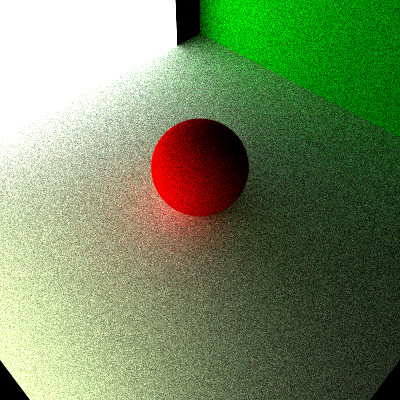
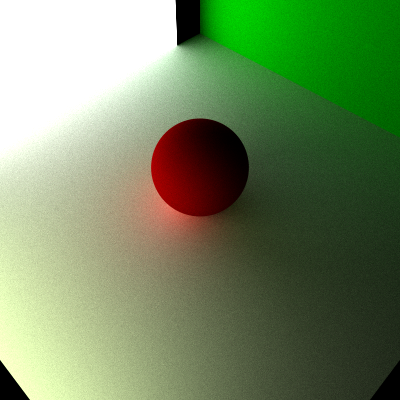
finished

diff --git a/assignment_package/src/integrators/naiveintegrator.cpp b/assignment_package/src/integrators/naiveintegrator.cpp
@@ -19,8 +19,10 @@ Color3f NaiveIntegrator::Li(const Ray &ray, const Scene &scene, std::shared_ptr<
 
             Color3f c = isect.bsdf->Sample_f(woW, &wiW, xi, &pdf);
             Color3f li = Li(isect.SpawnRay(glm::normalize(wiW)), scene, sampler, depth -1);
-            if (pdf < 0.0000001) li = Color3f(0.f);
-            color =  Le + c * li * glm::dot(wiW, isect.normalGeometric)/pdf;
+            if (pdf < 0.0000001) {
+                color = Color3f(0.f);
+            }
+            else color =  Le + c * li * glm::dot(wiW, isect.normalGeometric)/pdf;
         }
     }
     return color;

diff --git a/assignment_package/src/integrators/integrator.cpp b/assignment_package/src/integrators/integrator.cpp
@@ -13,10 +13,10 @@ void Integrator::Render()
     // For every pixel in the FilmTile:
     for(Point2i pixel : tilePixels)
     {
-        ///Uncomment this to debug a particular pixel within this tile
-//        if(pixel.x != 200 && pixel.y != 200)
+        //Uncomment this to debug a particular pixel within this tile
+//        if(pixel.x == 160 && pixel.y == 145)
 //        {
-//            continue;
+//            std::cout << "";
 //        }
         Color3f pixelColor(0.f);
         // Ask our sampler for a collection of stratified samples, then raycast through each sample

diff --git a/assignment_package/src/scene/materials/lambertbrdf.cpp b/assignment_package/src/scene/materials/lambertbrdf.cpp
@@ -20,6 +20,5 @@ Color3f LambertBRDF::Sample_f(const Vector3f &wo, Vector3f *wi, const Point2f &u
 float LambertBRDF::Pdf(const Vector3f &wo, const Vector3f &wi) const
 {
     //TODO
-    //return SameHemisphere(wo,wi) ? WarpFunctions::squareToHemisphereCosinePDF(wi):0;
-    return WarpFunctions::squareToHemisphereCosinePDF(wi);
+    return SameHemisphere(wo,wi) ? WarpFunctions::squareToHemisphereCosinePDF(wi):0;
 }

diff --git a/README.md b/README.md
@@ -1,315 +1,25 @@
 Path Tracer Episode II: Attack of the Rays
 ======================
 
-**University of Pennsylvania, CIS 561: Advanced Computer Graphics, Homework 4**
+Sarah Forcier
+58131867
 
-Overview
-------------
-You will implement a na&#239;ve Monte Carlo path tracer by writing functions to
-generate random ray samples within a hemisphere so that you can compute the
-lighting a surface intersection receives. The images your path tracer produces
-will be rather grainy in appearance, but in future assignments we will implement
-ray sampling functions that will help combat this. For now, the most important
-part of this assignment is reading through the base code and understanding how
-all of the path tracer's components work together to produce an image.
+Uniform Hemisphere, depth = 1, 100 samples:
 
-Useful Reading
----------
-Once again, you will find the textbook will be very helpful when implementing
-this homework assignment. We recommend referring to the following chapters:
-* 8.1: Basic Reflection Interface
-* 8.3: Lambertian Reflection
-* 9.1: BSDF
-* 9.2: Material and Interface Implementations
-* 5.4: Radiometry
+![](./1recursionuniform.png)
 
-The Light Transport Equation
---------------
-#### L<sub>o</sub>(p, &#969;<sub>o</sub>) = L<sub>e</sub>(p, &#969;<sub>o</sub>) + &#8747;<sub><sub>S</sub></sub> f(p, &#969;<sub>o</sub>, &#969;<sub>i</sub>) L<sub>i</sub>(p, &#969;<sub>i</sub>) V(p', p) |dot(&#969;<sub>i</sub>, N)| _d_&#969;<sub>i</sub>
+Uniform Hemisphere, depth = 5, 100 samples:
 
-* __L<sub>o</sub>__ is the light that exits point _p_ along ray &#969;<sub>o</sub>.
-* __L<sub>e</sub>__ is the light inherently emitted by the surface at point _p_
-along ray &#969;<sub>o</sub>.
-* __&#8747;<sub><sub>S</sub></sub>__ is the integral over the sphere of ray
-directions from which light can reach point _p_. &#969;<sub>o</sub> and
-&#969;<sub>i</sub> are within this domain. In general, we tend to only care
-about one half of this sphere, determining the relevant half based on the
-reflectance or transmittance of the BSDF.
-* __f__ is the Bidirectional Scattering Distribution Function of the material at
-point _p_, which evaluates the proportion of energy received from
-&#969;<sub>i</sub> at point _p_ that is reflected along &#969;<sub>o</sub>.
-* __L<sub>i</sub>__ is the light energy that reaches point _p_ from the ray
-&#969;<sub>i</sub>. This is the recursive term of the LTE.
-* __V__ is a simple visibility test that determines if the surface point _p_' from
-which &#969;<sub>i</sub> originates is visible to _p_. It returns 1 if there is
-no obstruction, and 0 is there is something between _p_ and _p_'. This is really
-only included in the LTE when one generates &#969;<sub>i</sub> by randomly
-choosing a point of origin in the scene rather than generating a ray and finding
-its intersection with the scene.
-* The __absolute-value dot product__ term accounts for Lambert's Law of Cosines.
+![](./5recursionuniform.png)
 
-Code Style Notes
--------------
-Many of the functions with which we have provided you "return" multiple values
-by way of altering variables that are function inputs. For consistency, we only
-use references to save stack space when passing variables into functions; they
-are always `const`. On the other hand, if a function contains a pointer to some
-variable, then the function is expected to alter the value of the variable
-passed by pointer, assuming the pointer is not `null`.
+Cosine Weighted Hemisphere, depth 1, 100 samples:
 
-We have also defined several type aliases in `globals.h` to make the provided
-code more human-readable. For example, rather than declaring `glm::vec3`s to
-represent points, directions, and normals all together, we have provided the
-`Point3f`, `Vector3f`, and `Normal3f` types to use in your code. When compiled,
-they simply become `glm::vec3`s, and can be used exactly the same way, but they
-make the code a little easier to interpret for a human. There are additional
-types defined in `globals.h` along with some utility functions and constant
-float values (e.g. &#960; / 2), so we highly recommend you look at this file
-before writing any code.
+![](./1recursion.png)
 
-`WarpFunctions` Implementations
-------------
-Copy your implementation of `warpfunctions.cpp` into the base code we've
-provided. You may have to change some of the constants you used in homework 3,
-such as `M_PI` to `Pi`. Refer to `globals.h` for more information.
+Cosine Weighted Hemisphere, depth 5, 100 samples:
 
-`Shape::ComputeTBN` (5 points)
-----------------
-We have provided you with implementations of the function `Shape::Intersect`,
-which computes the intersection of a ray with some surface, such as a sphere or
-square plane. Each of the classes that inherits from `Shape` invokes
-`ComputeTBN`, a function that computes the world-space geometric surface normal,
-tangent, and bitangent at the given point of intersection. However, in the code
-we have provided, this function only computes the world-space geometric surface
-normal. For every `ComputeTBN`, you must add code that computes the world-space
-tangent and bitangent. Note that unlike transforming a surface normal,
-transforming a tangent vector from object space into world space __does not__
-use the inverse transpose of the object's model matrix, but rather just its
-model matrix. If you consider transforming any plane from one space to another
-space, you can see that any vector within the plane (i.e. a tangent vector)
-must be transformed by the matrix used to transform the whole plane.
+![](./5recursion.png)
 
-You might be wondering why these additional vectors are needed in the first
-place; it's because we'll need them to create matrices that transform the rays
-&#969;<sub>o</sub> and &#969;<sub>i</sub> from world space into tangent space
-and back when evaluating BSDFs. By tangent space, we mean a coordinate system
-in which the surface normal at the point of intersection is treated as (0, 0, 1)
-and a tangent and bitangent at the intersection are treated as (1, 0, 0) and
-(0, 1, 0) respectively. These matrices are analogous to the orientation
-component of a camera's View matrix and its inverse.
+Cosine Weighted Hemisphere, depth 5, 2500 samples:
 
-`Primitive` Class
--------------
-The path tracer base code uses a class called `Primitive` to encapsulate
-geometry attributes such as shape, material, and light source. `Primitives` can
-intersect with rays, and they can generate `BSDF`s for `Intersection`s based
-on the `Material` attached to the `Primitive`. They can also return the light
-emitted by the `AreaLight` attached to them, if one exists. `Primitives` hold
-the following data:
-* A pointer to a `Shape` describing the geometric surface of this `Primitive`
-* A pointer to a `Material` describing the light scattering properties of this
-`Primitive`
-* A pointer to an `AreaLight` describing the energy emitted by the surface
-of the `Shape` held by this `Primitive`.
-
-`BSDF` Class (30 points)
-----------
-In `scene/materials/bsdf.h`, you will find the declaration of a `BSDF` class.
-This class represents a generic Bidirectional Scattering Distribution Function,
-and is designed to hold a collection of several `BxDF`s, which represent
-specific scattering functions. For example, a Lambertian BRDF or a Specular
-Transmission BTDF would be defined by classes that inherit from BxDF. When a
-BSDF is asked to evaluate itself (i.e. invoke the `f` component of the Light
-Transport Equation), it evaluates the `f` of all the BxDFs it contains. You
-must implement the following functions for the `BxDF` class:
-* `f(const Vector3f &woW, const Vector3f &wiW, BxDFType flags)`
-* `Sample_f(const Vector3f &woW, Vector3f *wiW, const Point2f &xi,
-  float *pdf, BxDFType type, BxDFType *sampledType)`
-* `Pdf(const Vector3f &woW, const Vector3f &wiW, BxDFType flags)`
-* The portion of the `BSDF` constructor's initialization list that instantiates
-its `worldToTangent` and `tangentToWorld` matrices, which are composed of the
-input `Intersection`'s `tangent`, `bitangent`, and `normalGeometric`. The
-`worldToTangent` matrix has these vectors as its rows, and the `tangentToWorld`
-has them as its columns (in the order listed, so it would be tangent, then
-  bitangent, then normal). Remember that the constructor for a GLM matrix uses
-  the input vectors as the columns of the resultant matrix.
-
-We have provided comments above each of these functions in `bsdf.h` which
-describe what these functions are supposed to do. Please make sure you read
-these comments carefully before you begin implementing these functions.
-
-`BxDF` Class (15 points)
--------------
-You will find the declaration of the `BxDF` class in `scene/materials/bsdf.h`.
-As explained previously, `BxDF` is an abstract class used to evaluate the
-result of a specific kind of BSDF, such as Lambertian reflection or specular
-transmission. You must implement the `Sample_f` and `Pdf` functions of this
-class so that the former randomly generates a ray direction `wi` from a uniform
-distribution within the hemisphere and that the latter computes the PDF of this
-distribution. Note that `Sample_f` also returns the result of invoking `f` on
-the input `wo` and the generated `wi`, but `f` will be defined by specific
-subclasses of `BxDF`.
-
-`LambertBRDF` Class (15 points)
---------
-In `scene/materials/lambertbrdf.h` you will find the declaration of a class
-`LambertBRDF`, which will be used to evaluate the scattering of energy by
-perfectly Lambertian surfaces. For this class, you must implement the `f`,
-`Sample_f`, and `Pdf` functions. Unlike the generic `BxDF` class, the
-`LambertBRDF` class will generate cosine-weighted samples within the hemisphere
-in its `Sample_f` and will return the PDF associated with this distribution in
-`Pdf`. Most importantly, `f` must return the proportion of energy from `wi` that
-is reflected along `wo` for a Lambertian surface. This proportion will include
-the energy scattering coefficient of the BRDF, `R`.
-
-`MatteMaterial` Class
----------
-We have provided one class that inherits from the abstrace base class
-`Material`, `MatteMaterial`. This class describes a material with diffuse
-reflectance properties similar to those of, say, matte paint. This class
-implements a function called `ProduceBSDF`, which is invoked via the `Primitive`
-class during its `Intersect` function to assign a `BSDF` to the `Intersection`
-generated by this `Intersect` function. `ProduceBSDF` looks at the texture and
-normal maps of the `MatteMaterial` and combines them with the base reflectance
-color and `sigma` term of the material to produce either an Oren-Nayar BRDF
-(for extra credit if you choose) or a Lambertian BRDF, as described above.
-
-`Integrator` Class
-------------
-We have provided you with the abstract class `Integrator` in
-`integrators/integrator.h`. This class is analogous to the `RenderTask` class
-you wrote for your ray tracer. It has a function `Render` which iterates
-over all of the pixels in this `Integrator`'s image tile and generates a
-collection of samples within a pixel, then ray casts through each and evaluates
-the energy that is emitted from the scene back to the camera's pixel. This
-function invokes another function `Li` to evaluate this energy, but the base
-`Integrator` class provides no implementation.
-
-`NaiveIntegrator` class (25 points)
-------------
-You will implement the body of the `NaiveIntegrator` class's `Li` function,
-which recursively evaluates the energy emitted from the scene along some ray
-back to the camera. This function must find the intersection of the input ray
-with the scene and evaluate the result of the light transport equation at the
-point of intersection. Below is a list of functions you will find useful while
-implementing `Li`:
-* `Scene::Intersect`
-* `Intersection::Le`
-* `Intersection::ProduceBSDF`
-* `Intersection::SpawnRay`
-* `BSDF::Sample_f`
-
-Note that if `Li` is invoked with a depth value of 0 or if the intersection with
-the scene hits an object with no `Material` attached, then `Li` should only
-evaluate and return the light emitted directly from the intersection.
-
-`DiffuseAreaLight` Class (10 points)
------------
-You will find this class under `scene/lights/diffusearealight.h`, and it
-represents an area light that emits its energy equally in all directions from
-its surface. For this class, you must implement one function, `L`, which returns
-the light emitted from a point on the light's surface along a direction `w`,
-which is leaving the surface. This function is invoked in `Intersection::Le`,
-which returns the light emitted by a point of intersection on a surface.
-
-OpenGL Preview Window
------
-As with your ray tracer, we have provided you with an OpenGL preview window.
-Unlike with the ray tracer, the colors assigned to objects in this preview are
-not correlated with their material colors, due to the way `Material`s are
-designed in the path tracer. Every time you preview a scene, its shapes will
-be colored randomly.
-
-Example Renders
----------
-When you ask your program to render an image, it may slow down the other
-processes of your computer since Qt will try to use all available CPU cores.
-The program will play a short jingle when it has completed a render so you can
-go browse Facebook or read internet news articles (or maybe even the textbook!?)
-while you wait. Expect the renders to take much longer than those of your ray
-tracer, seeing as you are evaluating hundreds of rays per pixel rather than just
-one.
-
-You may click and drag on the GL preview screen to select a portion of it to
-render, rather than rendering the entire image.
-
-We recommend first testing your implementation of `IntegratorL:Li` with only a
-single ray recursion; this effectively computes only the direct lighting that
-each visible point in the scene reflects back to the camera. You can alter the
-number of ray recursions by adjusting the input to `Li`, which is invoked in
-`Integrator::Render`. If you render the provided scene with one recursion, 100
-samples per pixel (the default value), and cosine-weighted sampling, you should
-receive the following render (note that there is a pale yellow light just
-offscreen to the left):
-
-![](./intenseTwoLights100CosineDirectOnly.png)
-
-If you increase your recursion depth limit to 5, you should see the effects of
-global illumination: light bouncing off surfaces onto other surfaces to add some
-additional color, as light does in reality. You should produce this render:
-
-![](./intenseTwoLights100CosineNaive.png)
-
-Progressive rendering and render region
----------------------------------------
-We also have added functionality to progressively render scenes based on the regions you select. By default, if you hit render, you would see the OpenGL preview change to the render of the scene.
-
-![](./RenderRegion4.png)
-
-The preview scene will show up if you move your camera and then set it to render.
-
-The render region works with the progressive renderer, similar to what exists in Maya.
-![](./RenderRegion1.png)
-
-Click and drag region in the GL preview and hit render.
-
-![](./RenderRegion2.png)
-
-![](./RenderRegion5.png)
-
-Debugging with breakpoints
-------
-We have set comments in the base code showing where you can _uncomment_ some
-code to more easily debug your program using breakpoints. First, you will have
-to disable multithreaded rendering of your scene by commenting out a `#define`
-in `MyGL::RenderScene`, and if you wish to debug specific pixels you will have
-to uncomment some example code in `MyGL::RenderScene` and `Integrator::Render`.
-
-Extra credit (30 points maximum)
------------
-In addition to the features listed below, you may choose to implement __any
-feature you can think of__ as extra credit, provided you propose the idea to the
-course staff through Piazza first.
-
-#### Oren-Nayar BRDF (5 points)
-Implement a class `OrenNayarBRDF` which inherits from the `BxDF` class and
-implements Oren-Nayar diffuse reflection as described in the textbook. You will
-also have to add code to `MatteMaterial::ProduceBSDF` so that it adds this
-`BxDF` to the `BSDF` it generates when the material's `sigma` term is greater
-than zero. To test your implementation, modify the code in
-`Scene::CreateTestScene` so that the `sigma` value of at least one of the
-`MatteMaterial`s is nonzero. You will just need to implement this BRDF's `f`
-function, since its `Sample_f` and `Pdf` are identical to those of the
-`LambertBRDF` class.
-
-#### Lambertian Transmission BTDF (5 points)
-Implement a class `LambertBTDF` which inherits from the `BxDF` class and
-implements a Lambertian __transmission__ model. This is virtually identical to
-a Lambertian reflection model, but the hemisphere in which rays are sampled is
-on the other side of the surface normal compared to the hemisphere of Lambertian
-reflection.
-
-Submitting your project
---------------
-Along with your project code, make sure that you fill out this `README.md` file
-with your name and PennKey, along with your test renders. You should include
-renders using uniform hemisphere sampling, cosine weighted hemisphere sampling,
-one recursion, and five recursions. If you have time, you should try rendering
-your image using thousands of samples per pixel rather than hundreds so that you
-have an image result that is much smoother in appearance.
-
-Rather than uploading a zip file to Canvas, you will simply submit a link to
-the committed version of your code you wish us to grade. If you click on the
-__Commits__ tab of your repository on Github, you will be brought to a list of
-commits you've made. Simply click on the one you wish for us to grade, then copy
-and paste the URL of the page into the Canvas submission form.
+![](./rendered_images.png)
